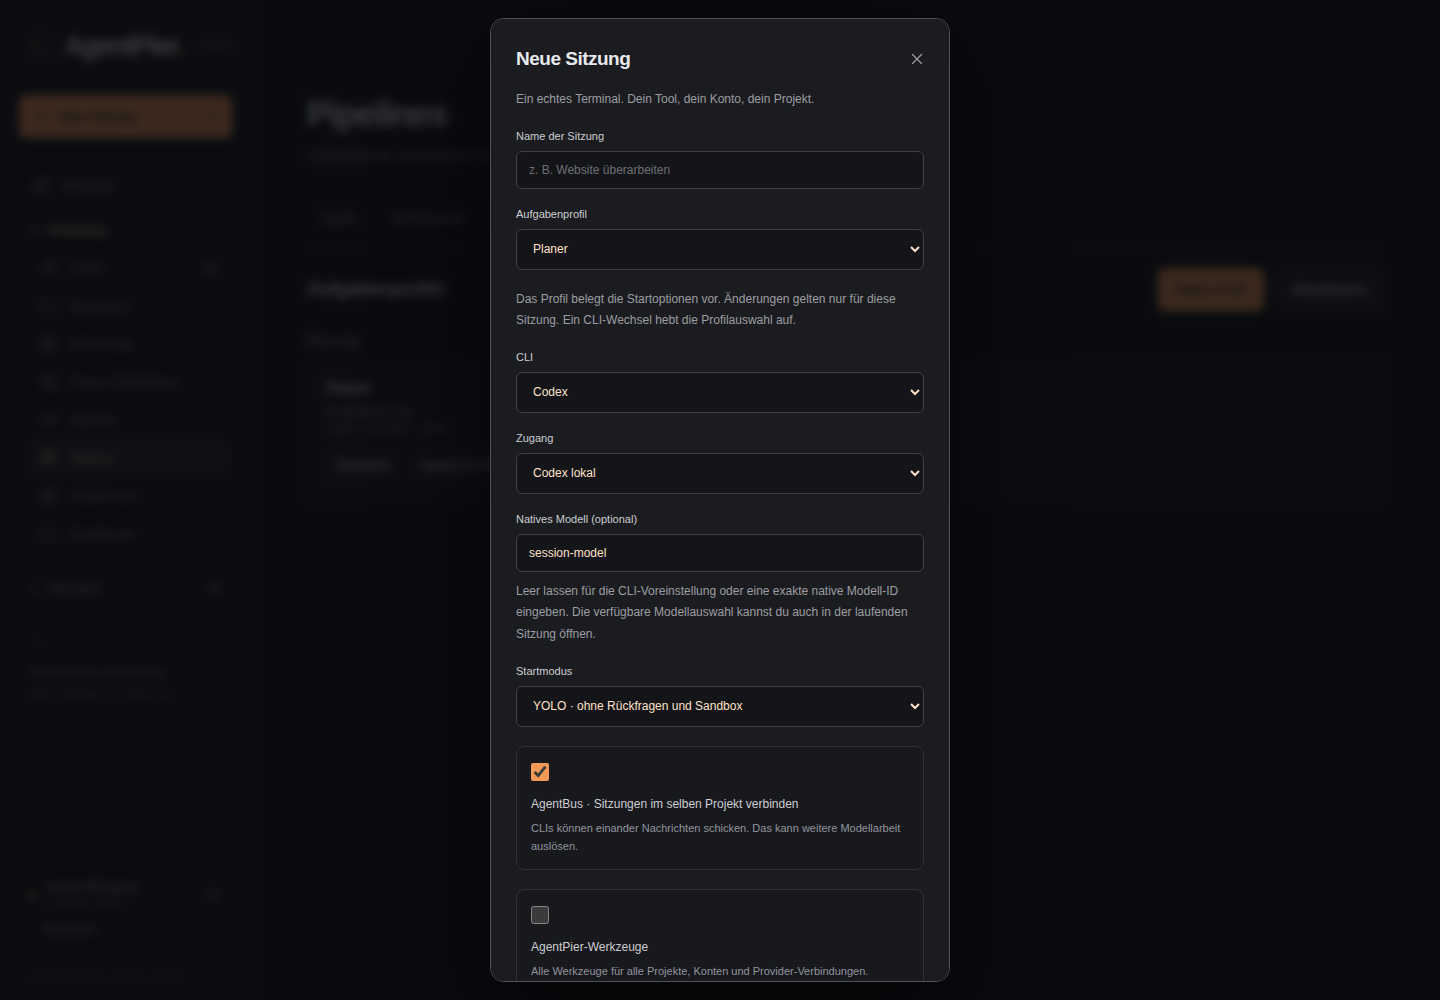
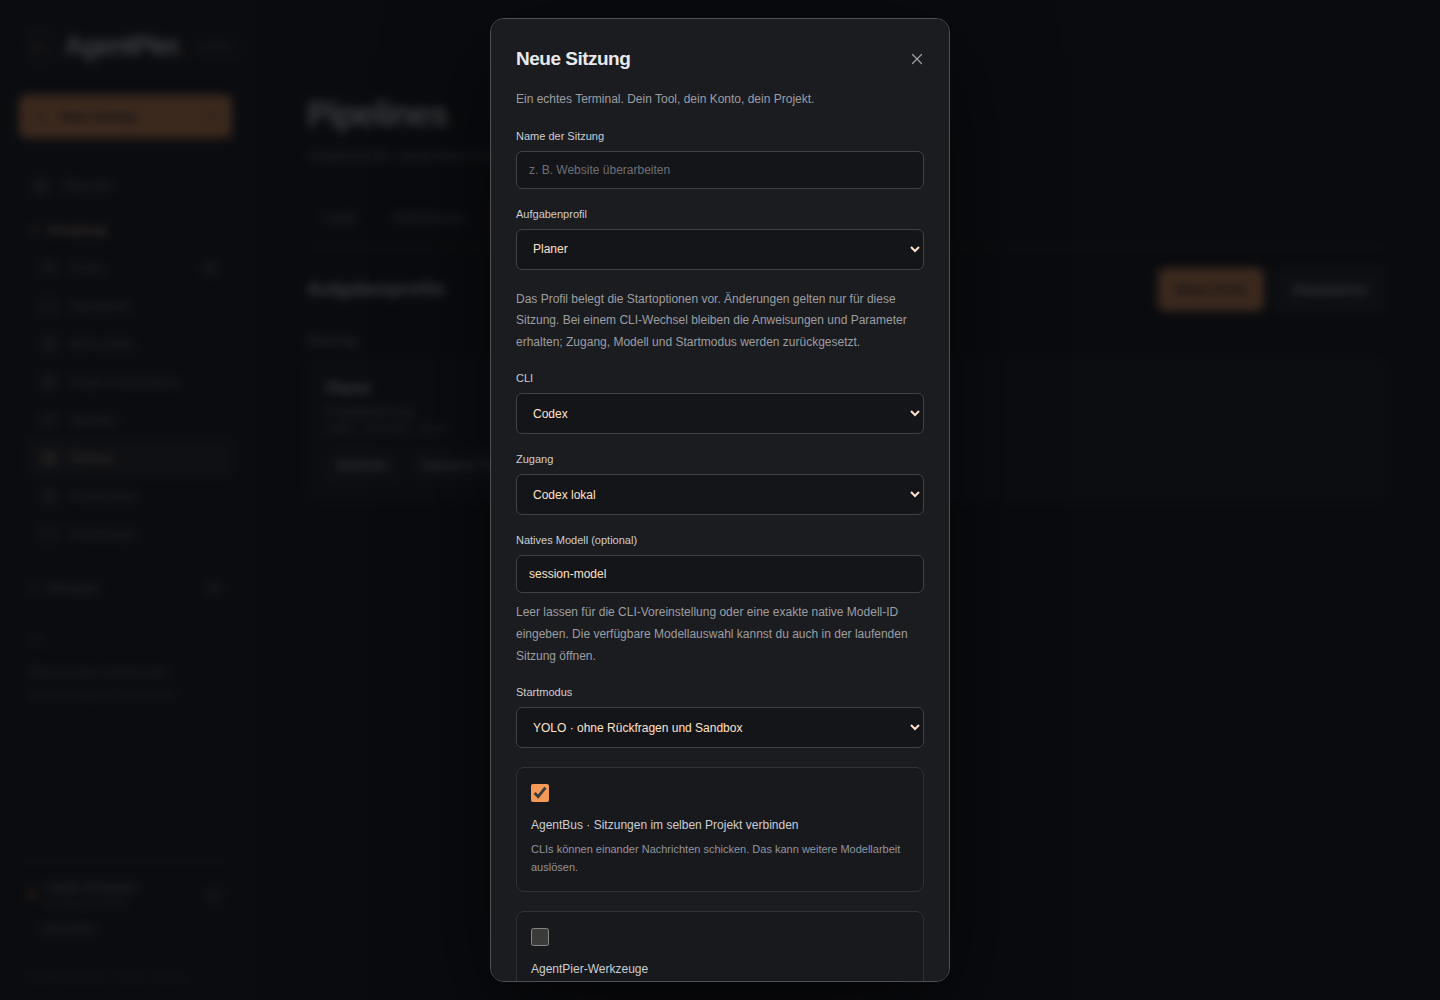
fix: preserve task profile instructions when changing session CLI

Changed region(s): [[0.3438, 0.31, 0.625, 0.992]]

diff --git a/tests/browser/session-profiles.spec.js b/tests/browser/session-profiles.spec.js
@@ -68,7 +68,7 @@ for (const width of [1440, 390])
     await expect(model).toHaveValue("");
     await profile.selectOption("profile-one");
     await dialog.getByLabel("CLI", { exact: true }).selectOption("claude");
-    await expect(profile).toHaveValue("");
+    await expect(profile).toHaveValue("profile-one");
     await expect(dialog.getByLabel("Startmodus", { exact: true })).toHaveValue("auto");
   });
 
@@ -120,4 +120,60 @@ test("a removed preselected profile cannot silently launch a plain session", asy
   await expect(
     dialog.getByRole("button", { name: "Sitzung starten", exact: true }),
   ).toBeEnabled();
+});
+
+test("Bug Hunter instructions and parameters survive switching from Claude to Codex", async ({
+  page,
+}) => {
+  const state = await pipelinesFixture(page);
+  const profile = state.profiles[0];
+  profile.name = "Bug Hunter";
+  profile.config.cliTool = "claude";
+  profile.config.accountId = "local-claude";
+  profile.config.permissions.mode = "auto";
+  profile.config.prompts.params = [{ key: "topic", label: "Fehler", required: true }];
+  await openPipelines(page);
+  await page.getByRole("button", { name: "Neue Sitzung", exact: true }).click();
+  const dialog = page.getByRole("dialog", { name: "Neue Sitzung", exact: true });
+  const selection = dialog.getByRole("combobox", { name: "Aufgabenprofil", exact: true });
+  await selection.selectOption(profile.id);
+  await dialog.getByLabel("Fehler", { exact: true }).fill("Missing kickoff");
+  await dialog.getByLabel("CLI", { exact: true }).selectOption("codex");
+  await expect(selection).toHaveValue(profile.id);
+  await expect(dialog.getByLabel("Fehler", { exact: true })).toHaveValue(
+    "Missing kickoff",
+  );
+  await expect(dialog.getByLabel("Startmodus", { exact: true })).toHaveValue("default");
+  await expect(
+    dialog.getByLabel("Startmodus", { exact: true }).locator('option[value="profile"]'),
+  ).toHaveCount(0);
+  state.fail = `/pipeline-profiles/${profile.id}/launch`;
+  await dialog.getByRole("button", { name: "Sitzung starten", exact: true }).click();
+  await expect(dialog.getByRole("alert")).toContainText("Fixture conflict");
+  expect(state.calls.find((call) => call.path.endsWith("/launch")).body).toMatchObject({
+    access: { tool: "codex", accountId: "local-codex" },
+    params: { topic: "Missing kickoff" },
+    launchMode: "default",
+  });
+  expect(
+    state.calls.some((call) => call.path === "/sessions" && call.method === "POST"),
+  ).toBe(false);
+  await dialog
+    .getByLabel("Zugang", { exact: true })
+    .selectOption("provider:central-openrouter");
+  await dialog
+    .getByRole("combobox", { name: "Anbietermodell", exact: true })
+    .selectOption("fixture/model");
+  await dialog.getByRole("button", { name: "Sitzung starten", exact: true }).click();
+  await expect
+    .poll(() => state.calls.filter((call) => call.path.endsWith("/launch")).length)
+    .toBe(2);
+  expect(
+    state.calls.filter((call) => call.path.endsWith("/launch"))[1].body.access,
+  ).toEqual({
+    tool: "codex",
+    accountId: "local-codex",
+    providerConnectionId: "central-openrouter",
+    providerModelId: "fixture/model",
+  });
 });

diff --git a/tests/unit/standalone-profile.test.js b/tests/unit/standalone-profile.test.js
@@ -22,7 +22,12 @@ function fixture(tool = "codex") {
       },
     },
   };
-  const accounts = { get: (id) => ({ id, tool: id === "wrong-cli" ? "shell" : tool }) };
+  const accounts = {
+    get: (id) => ({
+      id,
+      tool: id === "wrong-cli" ? "shell" : id.startsWith("local-") ? id.slice(6) : tool,
+    }),
+  };
   let captured;
   const driver = {
     accounts,
@@ -106,7 +111,7 @@ test("standalone choices reject mismatched access and still require profile para
   const f = fixture();
   for (const access of [
     null,
-    { tool: "claude", accountId: "local-claude" },
+    { tool: "claude", accountId: "local-codex" },
     { tool: "codex", accountId: "wrong-cli" },
     {
       tool: "codex",
@@ -124,4 +129,32 @@ test("standalone choices reject mismatched access and still require profile para
   f.profile.enabled = false;
   await assert.rejects(f.launch({ params: { topic: "code" } }), /disabled/);
   assert.equal(f.captured(), undefined);
+});
+
+for (const tool of ["codex", "claude", "opencode"])
+  test(`changing a standalone profile CLI to ${tool} retains its rendered instructions`, async () => {
+    const f = fixture(tool === "claude" ? "codex" : "claude");
+    const original = structuredClone(f.profile);
+    await f.launch({
+      access: { tool, accountId: `local-${tool}`, nativeModelId: "selected-model" },
+      params: { topic: "the reported bug" },
+      launchMode: "default",
+    });
+    const result = f.captured();
+    assert.equal(result.body.accountId, `local-${tool}`);
+    assert.equal(result.model, "selected-model");
+    assert.deepEqual(result.command.args.slice(-2), [
+      tool === "opencode" ? "--prompt" : "--",
+      "Review carefully\n\nInspect the reported bug",
+    ]);
+    assert.deepEqual(f.profile, original);
+  });
+
+test("switching from Claude to Codex without a mode override uses Codex permissions", async () => {
+  const f = fixture("claude");
+  await f.launch({
+    access: { tool: "codex", accountId: "local-codex" },
+    params: { topic: "bug" },
+  });
+  assert.ok(f.captured().command.args.includes('approval_policy="on-request"'));
 });

diff --git a/web/features/sessions/LaunchDialog.jsx b/web/features/sessions/LaunchDialog.jsx
@@ -34,8 +34,8 @@ export default function LaunchDialog({
   const [profileId, setProfileId] = useState(initialProfile?.id || ""),
     [params, setParams] = useState({});
   const profile = profiles.data?.profiles?.find((item) => item.id === profileId);
-  const profileReady =
-    !profileId || Boolean(profile?.enabled && profile.config.cliTool === access.tool);
+  const profileReady = !profileId || Boolean(profile?.enabled);
+  const profileCli = profile?.config.cliTool === access.tool;
   function chooseProfile(id) {
     const selected = profiles.data?.profiles?.find((item) => item.id === id);
     setProfileId(id);
@@ -114,7 +114,15 @@ export default function LaunchDialog({
                   params,
                   access: {
                     ...access.body,
-                    ...(access.connection ? { accountId: profile.config.accountId } : {}),
+                    ...(access.connection
+                      ? {
+                          accountId: profileCli
+                            ? profile.config.accountId
+                            : access.accounts.find(
+                                (item) => !item.internal && !item.provider,
+                              )?.id,
+                        }
+                      : {}),
                   },
                   ...(launchMode !== "profile" ? { launchMode } : {}),
                   agentbus: body.agentbus,
@@ -190,9 +198,8 @@ export default function LaunchDialog({
               access.chooseAccess(value);
             }}
             onToolChange={(value) => {
+              if (value === access.tool) return;
               access.chooseTool(value);
-              setProfileId("");
-              setParams({});
               setLaunchMode(defaultMode(value));
             }}
           />
@@ -206,7 +213,7 @@ export default function LaunchDialog({
                 disabled={!selectedTool}
                 onChange={setLaunchMode}
                 options={[
-                  ...(profile
+                  ...(profileCli
                     ? [
                         {
                           value: "profile",

diff --git a/server/features/pipelines/standalone-profile.js b/server/features/pipelines/standalone-profile.js
@@ -1,18 +1,22 @@
 import { problem } from "../../lib/storage.js";
-import { validateProfile } from "./profile-validation.js";
+import { PERMISSION_MODES, validateProfile } from "./profile-validation.js";
 
 // Per-session choices never update the stored profile or pipeline snapshots.
 export function standaloneProfile(profile, access, accounts) {
   if (access === undefined) return profile;
   if (!access || typeof access !== "object" || Array.isArray(access))
     throw problem("Invalid session access selection.");
-  if (access.tool !== profile.config.cliTool)
-    throw problem("The session CLI must match the task profile.");
+  if (!Object.hasOwn(PERMISSION_MODES, access.tool))
+    throw problem("Invalid session CLI.");
   if (access.providerConnectionId !== undefined && access.nativeModelId !== undefined)
     throw problem("Choose either a native model or a provider model.");
   if (access.providerConnectionId === undefined && access.providerModelId !== undefined)
     throw problem("Select a provider connection for the provider model.");
-  const config = { ...profile.config };
+  const config = { ...profile.config, cliTool: access.tool };
+  if (access.tool !== profile.config.cliTool)
+    config.permissions = {
+      mode: { codex: "on-request", claude: "default", opencode: "ask" }[access.tool],
+    };
   delete config.providerConnectionId;
   config.accountId = access.accountId;
   if (access.providerConnectionId !== undefined)

diff --git a/web/lib/i18n/de/sessions.js b/web/lib/i18n/de/sessions.js
@@ -4,7 +4,7 @@ export const launchDialogCopy = {
   profileUnavailable:
     "Das Aufgabenprofil ist nicht verfügbar. Bitte wähle ein anderes Profil.",
   profileSessionHint:
-    "Das Profil belegt die Startoptionen vor. Änderungen gelten nur für diese Sitzung. Ein CLI-Wechsel hebt die Profilauswahl auf.",
+    "Das Profil belegt die Startoptionen vor. Änderungen gelten nur für diese Sitzung. Bei einem CLI-Wechsel bleiben die Anweisungen und Parameter erhalten; Zugang, Modell und Startmodus werden zurückgesetzt.",
   profileMode: (mode) => `Profil · ${mode}`,
   profileModeDescription: (mode) =>
     `Verwendet den Berechtigungsmodus ${mode} aus dem Aufgabenprofil.`,

diff --git a/web/lib/i18n/en/sessions.js b/web/lib/i18n/en/sessions.js
@@ -3,7 +3,7 @@ export const launchDialogCopy = {
   noTaskProfile: "No task profile",
   profileUnavailable: "This task profile is unavailable. Please choose another profile.",
   profileSessionHint:
-    "The profile presets the launch options. Changes apply only to this session. Changing the CLI clears the profile selection.",
+    "The profile presets the launch options. Changes apply only to this session. Changing the CLI preserves instructions and parameters while resetting access, model and launch mode.",
   profileMode: (mode) => `Profile · ${mode}`,
   profileModeDescription: (mode) => `Uses permission mode ${mode} from the task profile.`,
 
